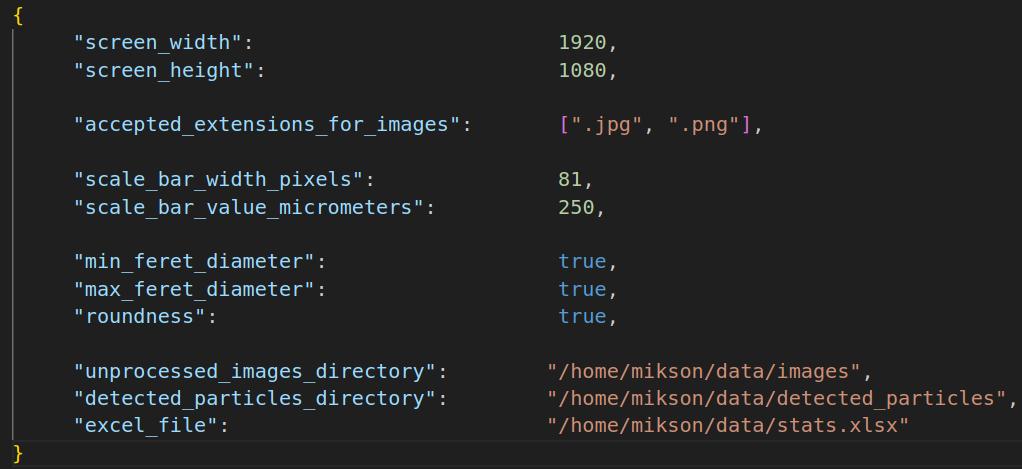
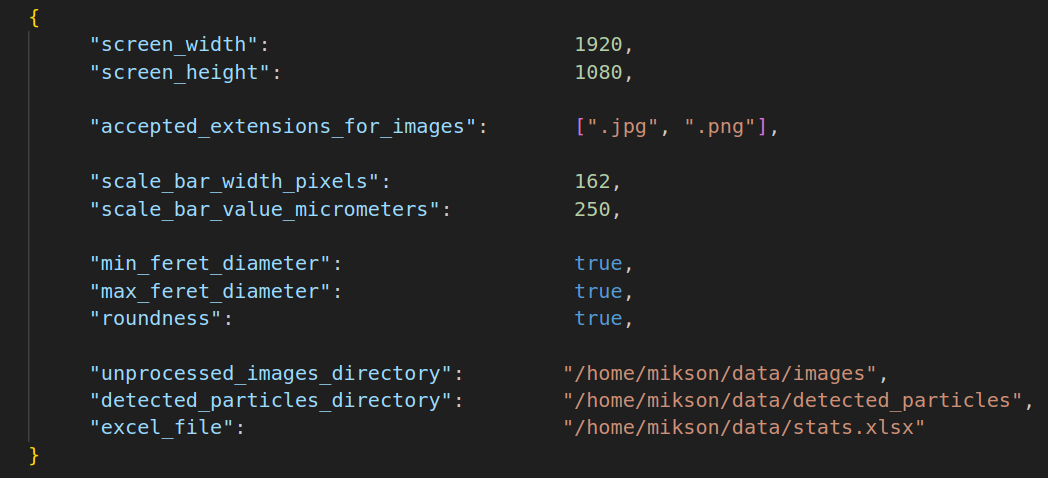
Update readme
Correct a mistake concerning scale bar measurement

diff --git a/README.md b/README.md
@@ -43,15 +43,20 @@ pip install -r requirements.txt
 ## Usage
 
 1. Configuration:
+
      - Run the script initially without adjusting the scrollbar.
 
      - Use the coordinate system provided by the script to measure the scale bar's pixel width.
+
+     - **Note on Resizing:** The script will display the resize ratio in the console when the image is displayed. If the image is resized (different than 1), you need to multiply the measured width of the scale bar by 2 to get the correct pixel width for the configuration.
+
+     - **Example** Here the calculated width will be `(904 - 824 + 1) * 2 = 162`. This accounts for the full pixel width across the measured distance. 
+
      <img src="screenshots/ScaleBar.png" alt="ScaleBarMeasurement" title="Red dots are (x,y) points shown">
 
      - Update the `config.json` file with the measurement to ensure accurate data extraction.
      <img src="screenshots/config.png" alt="ConfigExample" title="Example values">
      
-
 2. Running the script:
 
      - Execute the following command from the project's root directory:
